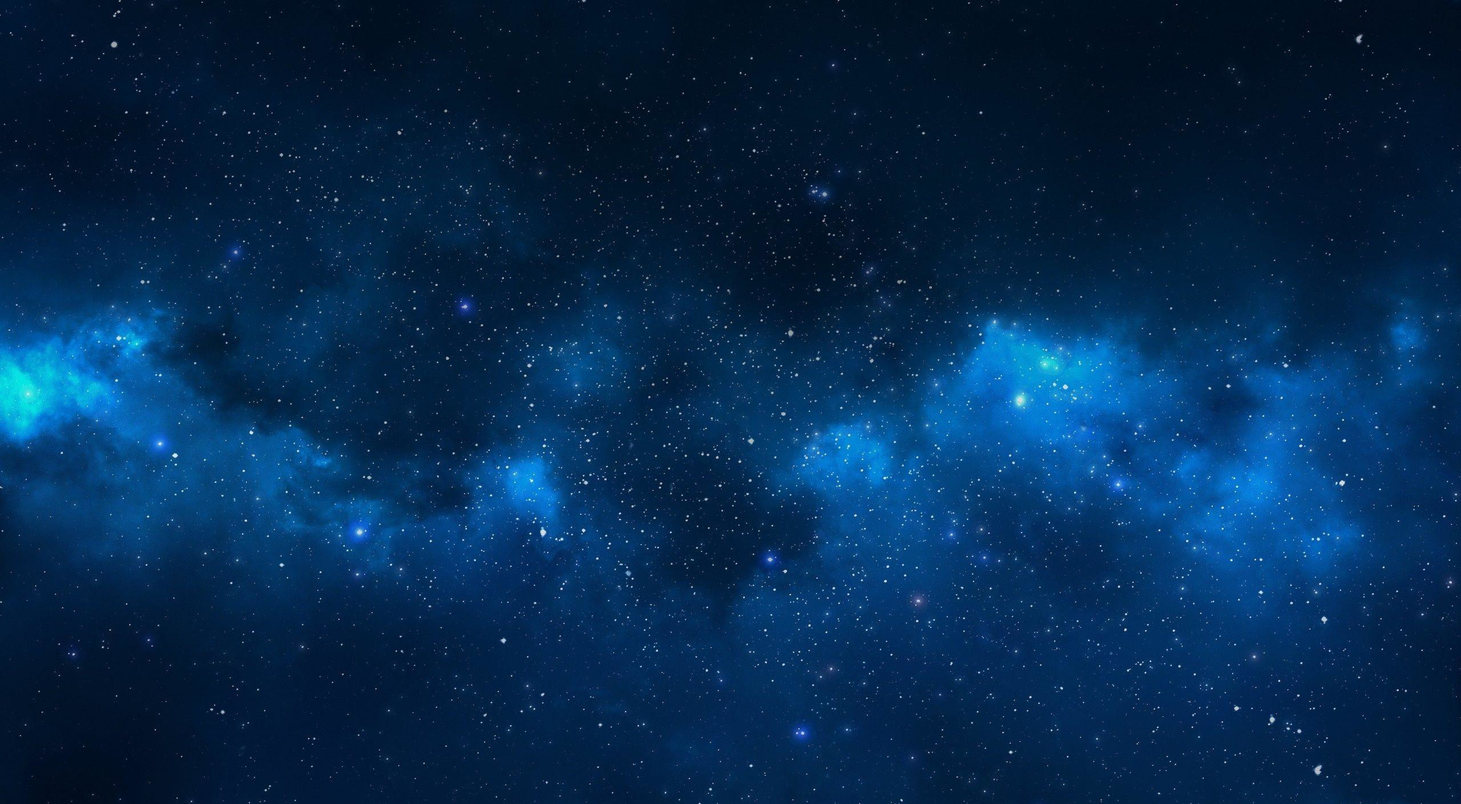
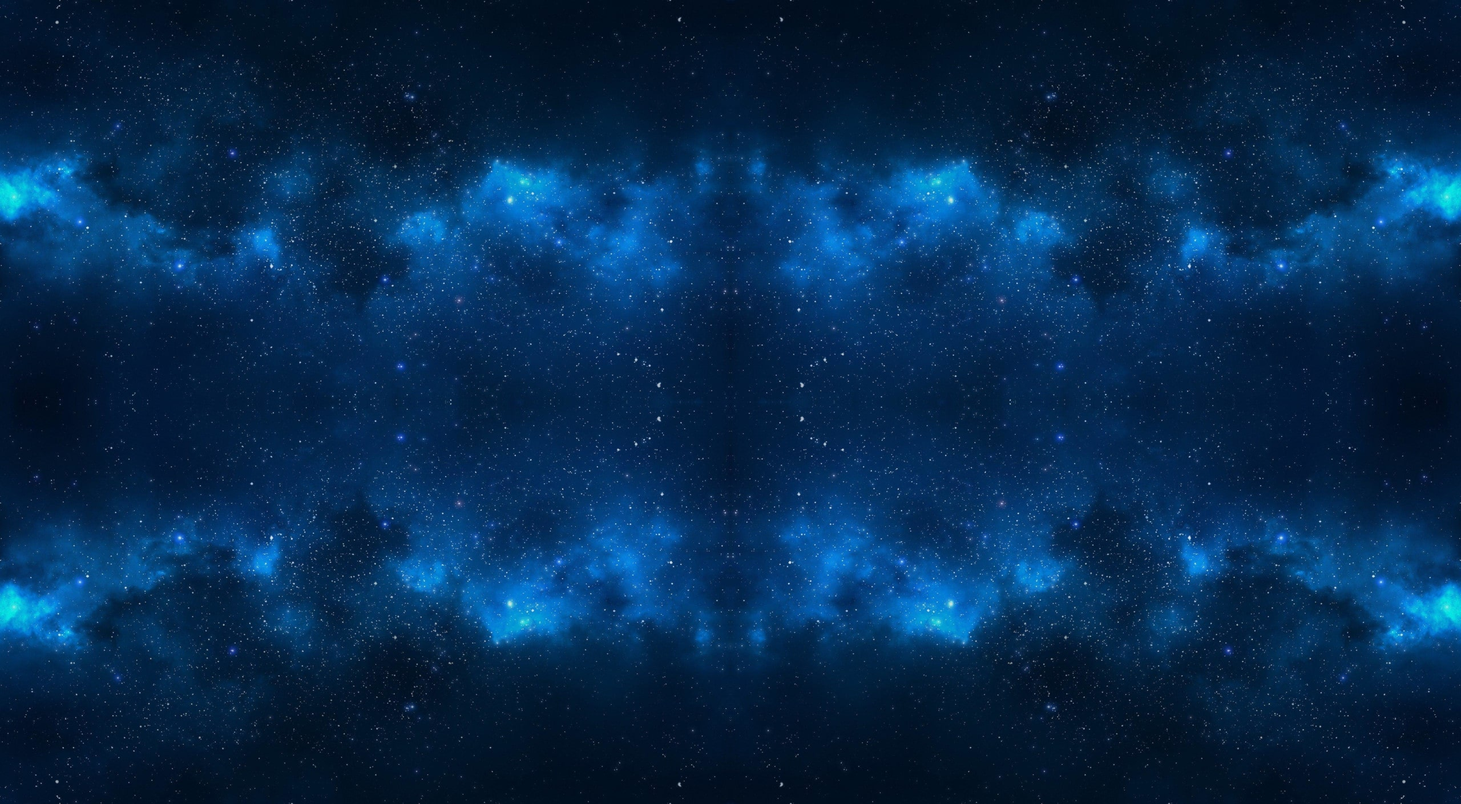
Changes in the background

diff --git a/src/App.scss b/src/App.scss
@@ -3,6 +3,11 @@
   min-height: 100vh;
   min-height: -webkit-fill-available;
   overflow-y: overlay;
+  background-image: linear-gradient(
+      rgba(30, 30, 30, 0.65),
+      rgba(30, 30, 30, 0.65)
+    ), url("assets/images/stars-background.jpg");
+  background-size: auto;
 
   body{
     min-height: 100vh;
@@ -14,14 +19,10 @@
 .rick-and-morty-character-wiki{
   font-family: monospace;
   background-image: linear-gradient(
-      rgba(30, 30, 30, 0.7),
-      rgba(30, 30, 30, 0.7)
+      rgba(30, 30, 30, 0.65),
+      rgba(30, 30, 30, 0.65)
     ), url("assets/images/stars-background.jpg");
-  background-attachment: fixed;
-  -moz-background-size: cover;
-  -webkit-background-size: cover;
-  -o-background-size: cover;
-  background-size: cover;
+  background-size: auto;
 
   .content{
     padding-top: 20px;

diff --git a/README.md b/README.md
@@ -1,2 +1,3 @@
 # rick-and-morty-character-wiki
-Rick and Morty: Character Wiki
+
+<a href="https://rick-and-morty-character-wiki.vercel.app/" target="_blank">Rick and Morty: Character Wiki</a>
